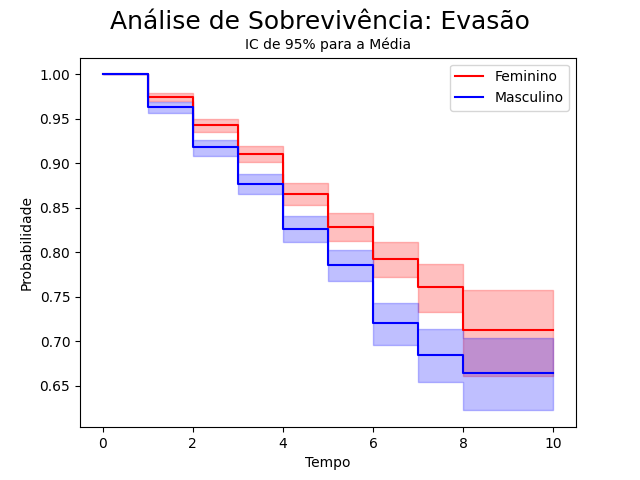
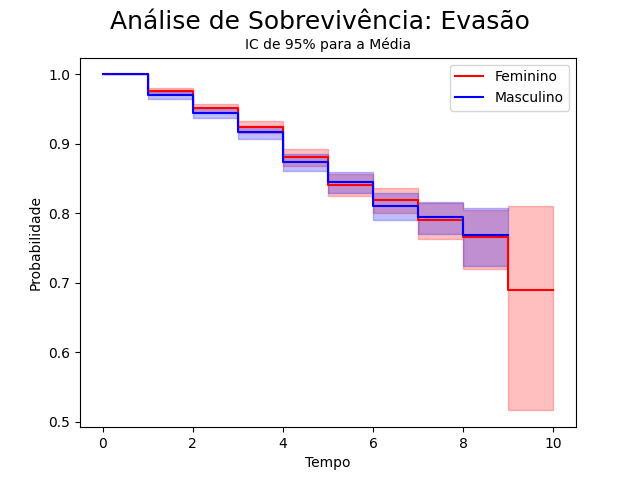
adicionado trancado como self loop

diff --git a/generate_mc.py b/generate_mc.py
@@ -2,105 +2,91 @@ import pandas as pd
 import numpy as np
 from markov_diagram import Diagram
 
+from pydtmc import MarkovChain, plot_graph, plot_walk
+
 # Alterar aqui parametros para gerar matriz
-nomeArquivo = "matrix/matrixF.csv"
-taxaRetencao = 1.0
-taxaEvasao = 1.0
+nomeArquivo = "matrix/matrixM.csv"
+taxaRetencao = 1.25
+taxaEvasao = 1.25
 taxaEvasaoR = 1.0
 taxaTrancar = 1.0
 taxaTrancarR = 1.0
-taxaProporcaoEvasao = 1.75
-taxaProporcaoTrancar = 1.5
+taxaProporcaoEvasao = 1.5
+taxaProporcaoTrancar = 1.25
 
 
 # T - representado por self loop
-A1T = 0.06 * taxaTrancar
+A1T = 0.05 * taxaTrancar
 A1RT = A1T * taxaTrancarR * taxaProporcaoTrancar
-A2T = 0.05 * taxaTrancar
+A2T = 0.04 * taxaTrancar
 A2RT = A2T * taxaTrancarR * taxaProporcaoTrancar
-A3T = 0.04 * taxaTrancar
+A3T = 0.03 * taxaTrancar
 A3RT = A3T * taxaTrancarR * taxaProporcaoTrancar
-A4T = 0.03 * taxaTrancar
+A4T = 0.02 * taxaTrancar
 A4RT = A4T * taxaTrancarR * taxaProporcaoTrancar
 A5T = 0.02 * taxaTrancar
 A5RT = A5T * taxaTrancarR * taxaProporcaoTrancar
 A6RT = 0.01 * taxaTrancarR
 A7RT = 0.01 * taxaTrancarR
 
-
-# A1
+# Reter
 A1toA1R = 0.25 * taxaRetencao
-A1toE = 0.12 * taxaEvasao
-# A1toA2 = 1 - A1toA1R - A1toE
-A1toA2 = 1 - A1toA1R - A1toE - A1T
-
-# A1R
-A1RtoE = A1toE * taxaEvasaoR * taxaProporcaoEvasao
-# A1RtoA2R = 1 - A1RtoE
-A1RtoA2R = 1 - A1RtoE - A1RT
-
-# A2
 A2toA2R = 0.3 * taxaRetencao
-A2toE = 0.08 * taxaEvasao
-# A2toA3 = 1 - A2toA2R - A2toE
-A2toA3 = 1 - A2toA2R - A2toE - A2T
-
-# A2R
-A2RtoE = A2toE * taxaEvasaoR * taxaProporcaoEvasao
-# A2RtoA3R = 1 - A2RtoE
-A2RtoA3R = 1 - A2RtoE - A2RT
-
-# A3
 A3toA3R = 0.2 * taxaRetencao
-A3toE = 0.1 * taxaEvasao
-# A3toA4 = 1 - A3toA3R - A3toE
-A3toA4 = 1 - A3toA3R - A3toE - A3T
-
-# A3R
-A3RtoE = A3toE * taxaEvasaoR * taxaProporcaoEvasao
-# A3RtoA4R = 1 - A3RtoE
-A3RtoA4R = 1 - A3RtoE - A3RT
-
-# A4
 A4toA4R = 0.15 * taxaRetencao
-A4toE = 0.06 * taxaEvasao
-# A4toA5 = 1 - A4toA4R - A4toE
-A4toA5 = 1 - A4toA4R - A4toE - A4T
-
-# A4R
-A4RtoE = A4toE * taxaEvasaoR * taxaProporcaoEvasao
-# A4RtoA5R = 1 - A4RtoE
-A4RtoA5R = 1 - A4RtoE - A4RT
-
-# A5
 A5toA5R = 0.2 * taxaRetencao
+
+# Evadir
+A1toE = 0.12 * taxaEvasao
+A1RtoE = A1toE * taxaEvasaoR * taxaProporcaoEvasao
+A2toE = 0.1 * taxaEvasao
+A2RtoE = A2toE * taxaEvasaoR * taxaProporcaoEvasao
+A3toE = 0.07 * taxaEvasao
+A3RtoE = A3toE * taxaEvasaoR * taxaProporcaoEvasao
+A4toE = 0.05 * taxaEvasao
+A4RtoE = A4toE * taxaEvasaoR * taxaProporcaoEvasao
 A5toE = 0.03 * taxaEvasao
-# A5toG = 1 - A5toA5R - A5toE
-A5toG = 1 - A5toA5R - A5toE - A5T
-
-# A5R
-A5RtoA6R = 0.3
 A5RtoE = A5toE * taxaEvasaoR * taxaProporcaoEvasao
-# A5RtoG = 1 - A5RtoA6R - A5RtoE
-A5RtoG = 1 - A5RtoA6R - A5RtoE - A5RT
+A6RtoE = 0.02 * taxaEvasaoR
+A7RtoE = 0.01 * taxaEvasaoR
 
-# A6R
+# Próximo estado
+# A1toA2 = 1 - A1toA1R - A1toE
+# A1RtoA2R = 1 - A1RtoE
+# A2toA3 = 1 - A2toA2R - A2toE
+# A2RtoA3R = 1 - A2RtoE
+# A3toA4 = 1 - A3toA3R - A3toE
+# A3RtoA4R = 1 - A3RtoE
+# A4toA5 = 1 - A4toA4R - A4toE
+# A4RtoA5R = 1 - A4RtoE
+A1toA2 = 1 - A1toA1R - A1toE - A1T
+A1RtoA2R = 1 - A1RtoE - A1RT
+A2toA3 = 1 - A2toA2R - A2toE - A2T
+A2RtoA3R = 1 - A2RtoE - A2RT
+A3toA4 = 1 - A3toA3R - A3toE - A3T
+A3RtoA4R = 1 - A3RtoE - A3RT
+A4toA5 = 1 - A4toA4R - A4toE - A4T
+A4RtoA5R = 1 - A4RtoE - A4RT
+A5RtoA6R = 0.3
 A6RtoA7R = 0.2
-A6RtoE = 0.03 * taxaEvasaoR
-# A6RtoG = 1 - A6RtoE - A6RtoA7R
-A6RtoG = 1 - A6RtoE - A6RtoA7R - A6RT
 
-# A7R
-A7RtoE = 0.02 * taxaEvasaoR
+# Graduar
+# A5toG = 1 - A5toA5R - A5toE
+# A5RtoG = 1 - A5RtoA6R - A5RtoE
+# A6RtoG = 1 - A6RtoE - A6RtoA7R
 # A7RtoG = 1 - A7RtoE
+A5toG = 1 - A5toA5R - A5toE - A5T
+A5RtoG = 1 - A5RtoA6R - A5RtoE - A5RT
+A6RtoG = 1 - A6RtoE - A6RtoA7R - A6RT
 A7RtoG = 1 - A7RtoE - A7RT
+
 
 progres = [A1toA2, A2toA3, A3toA4, A4toA5, A5toG, A1RtoA2R, A2RtoA3R, A3RtoA4R, A4RtoA5R, A5RtoG]
 ret = [A1toA1R, A2toA2R, A3toA3R, A4toA4R, A5toA5R]
 # tranc = [A1toT, A2toT, A3toT, A4toT, A5toT, A1RtoT, A2RtoT, A3RtoT, A4RtoT, A5RtoT]
 
-# states = ['A1', 'A2', 'A3', 'A4', 'A5', 'A1R', 'A2R', 'A3R', 'A4R', 'A5R', 'A6R', 'A7R', 'G', 'E']
-# state = np.array([[1, 0, 0, 0, 0, 0, 0, 0, 0, 0, 0, 0, 0, 0]])
+states = ['A1', 'A2', 'A3', 'A4', 'A5', 'A1R', 'A2R', 'A3R', 'A4R', 'A5R', 'A6R', 'A7R', 'G', 'E']
+state = np.array([[1, 0, 0, 0, 0, 0, 0, 0, 0, 0, 0, 0, 0, 0]])
 # p = [[0.0, A1toA2, 0.0, 0.0, 0.0, A1toA1R, 0.0, 0.0, 0.0, 0.0, 0.0, 0.0, 0.0, A1toE],
 #      [0.0, 0.0, A2toA3, 0.0, 0.0, 0.0, A2toA2R, 0.0, 0.0, 0.0, 0.0, 0.0, 0.0, A2toE],
 #      [0.0, 0.0, 0.0, A3toA4, 0.0, 0.0, 0.0, A3toA3R, 0.0, 0.0, 0.0, 0.0, 0.0, A3toE],
@@ -117,8 +103,6 @@ ret = [A1toA1R, A2toA2R, A3toA3R, A4toA4R, A5toA5R]
 #      [0.0, 0.0, 0.0, 0.0, 0.0, 0.0, 0.0, 0.0, 0.0, 0.0, 0.0, 0.0, 0.0, 1.0]]
 
 # Com trancamento
-states = ['A1', 'A2', 'A3', 'A4', 'A5', 'A1R', 'A2R', 'A3R', 'A4R', 'A5R', 'A6R', 'A7R', 'G', 'E']
-state = np.array([[1, 0, 0, 0, 0, 0, 0, 0, 0, 0, 0, 0, 0, 0]])
 p = [[A1T, A1toA2, 0.0, 0.0, 0.0, A1toA1R, 0.0, 0.0, 0.0, 0.0, 0.0, 0.0, 0.0, A1toE],
      [0.0, A2T, A2toA3, 0.0, 0.0, 0.0, A2toA2R, 0.0, 0.0, 0.0, 0.0, 0.0, 0.0, A2toE],
      [0.0, 0.0, A3T, A3toA4, 0.0, 0.0, 0.0, A3toA3R, 0.0, 0.0, 0.0, 0.0, 0.0, A3toE],
@@ -223,5 +207,39 @@ print(p)
 
 
 
+#Testes
 
-
+# def prob_absor(p, N):
+#     # f=NR
+#     x = np.array(p)
+#     x1 = x[:len(x) - 2, len(x) - 2]
+#     x2 = x[:len(x) - 2, len(x) - 1]
+#     R = np.array([x1, x2])
+#
+#     return np.round(np.dot(R, N.T).T, 3)
+#
+# stateHist = state
+# mc = MarkovChain(p, states)
+#
+# # informacoes sobre a cadeia de markov
+# # print(mc)
+#
+# # O tempo esperado que um aluno passa em um determinado estado e a duração prevista do estudo
+# print("\n Matriz Fundamental:")
+# N = np.round(mc.fundamental_matrix, 3)
+# print(N)
+#
+# # Tempos de Absorção
+# print("\n Duração esperada em cada ano até a graduação ou evasão")
+# print(np.round(mc.absorption_times, 3))
+#
+# print("\n Duração média esperada até graduação:")
+# # Sem estados retidos
+# # print(np.round(np.trace(np.asarray(N)), 3))
+# # Com estados retidos
+# print(np.round(np.trace((np.asarray(N) / 2)), 3))
+#
+# probGE = prob_absor(p, N)
+# for i in range(len(probGE)):
+#     print("\n Probabilidade graduação e evasão no estado " + states[i] + ":")
+#     print(probGE[i])

diff --git a/simulation.py b/simulation.py
@@ -1,48 +1,7 @@
 from matplotlib import pyplot as plt
 import numpy as np
-import pandas as pd
-from pydtmc import MarkovChain, plot_graph, plot_walk
 from lifelines import KaplanMeierFitter
 from Student import Student
-
-
-# def prob_absor(p, N):
-#     # f=NR
-#     x = np.array(p)
-#     x1 = x[:len(x) - 2, len(x) - 2]
-#     x2 = x[:len(x) - 2, len(x) - 1]
-#     R = np.array([x1, x2])
-#
-#     return np.round(np.dot(R, N.T).T, 3)
-
-# informacoes sobre a cadeia de markov
-# print(mc)
-
-# p = np.round(p, 4)
-# matriz_transicao()
-#
-# stateHist = state
-# mc = MarkovChain(p, statenames)
-#
-# # O tempo esperado que um aluno passa em um determinado estado e a duração prevista do estudo
-# print("\n Matriz Fundamental:")
-# N = np.round(mc.fundamental_matrix, 3)
-# print(N)
-#
-# # Tempos de Absorção
-# print("\n Duração esperada em cada ano até a graduação ou evasão")
-# print(np.round(mc.absorption_times, 3))
-#
-# # print("\n Duração média esperada até graduação:")
-# # Sem estados retidos
-# # print(np.round(np.trace(np.asarray(N)), 3))
-# # Com estados retidos
-# # print(np.round(np.trace((np.asarray(N) / 2)), 3))
-#
-# probGE = prob_absor(p, N)
-# for i in range(len(probGE)):
-#     print("\n Probabilidade graduação e evasão no estado " + statenames[i] + ":")
-#     print(probGE[i])
 
 
 def sobrevivencia(time, event_observed, label, color, title):
@@ -108,17 +67,21 @@ def Simu(quantAlunos, matriz):
 
         # Trancado
         estados = np.zeros((a.nb_state,), dtype=int)
-        count = 0
-        for estado in arr:
-            if estado == 'T':
-                estados[count] = 1
-            count += 1
+        i = 1
+        while i < len(arr):
+            if arr[i] == arr[i-1]:  # se estado igual ao estado anterior
+                estados[i] = 1
+            i += 1
         event_observedT = np.concatenate((event_observedT, estados))
 
-        if 'T' in arr:
-            t += 1
-            k = arr.index("T")
-            tempo_ate_trancado.append(k)
+        # Se ficou Trancado em algum dos estados
+        i = 1
+        while i < len(arr):
+            if arr[i] == arr[i - 1]:  # se estado igual ao estado anterior
+                t += 1
+                tempo_ate_trancado.append(i)
+                break
+            i += 1
 
         # Retido
         estados = np.zeros((a.nb_state,), dtype=int)
@@ -141,7 +104,7 @@ def Simu(quantAlunos, matriz):
     prob_and_temp("Retido", r, tempo_ate_retido, quantAlunos)
     prob_and_temp("Evadido", e, tempo_ate_evadido, quantAlunos)
     prob_and_temp("Graduado", g, tempo_ate_graduado, quantAlunos)
-    # prob_and_temp("Trancado", t, tempo_ate_trancado, quantAlunos)
+    prob_and_temp("Trancado", t, tempo_ate_trancado, quantAlunos)
 
 
     return time, event_observedE, event_observedG, event_observedR, event_observedT
@@ -161,12 +124,14 @@ times = [timeF, timeM]
 eventsE = [event_observedEF, event_observedEM]
 eventsG = [event_observedGF, event_observedGM]
 eventsR = [event_observedRF, event_observedRM]
+eventsT = [event_observedTF, event_observedTM]
 colors = ["red", "blue"]
 labels = ["Feminino", "Masculino"]
 
 sobrevivencia(times, eventsE, labels, colors, "Evasão")
 sobrevivencia(times, eventsG, labels, colors, "Graduação")
 sobrevivencia(times, eventsR, labels, colors, "Retenção")
+sobrevivencia(times, eventsT, labels, colors, "Trancado")
 
 
 # Simulação Geral
